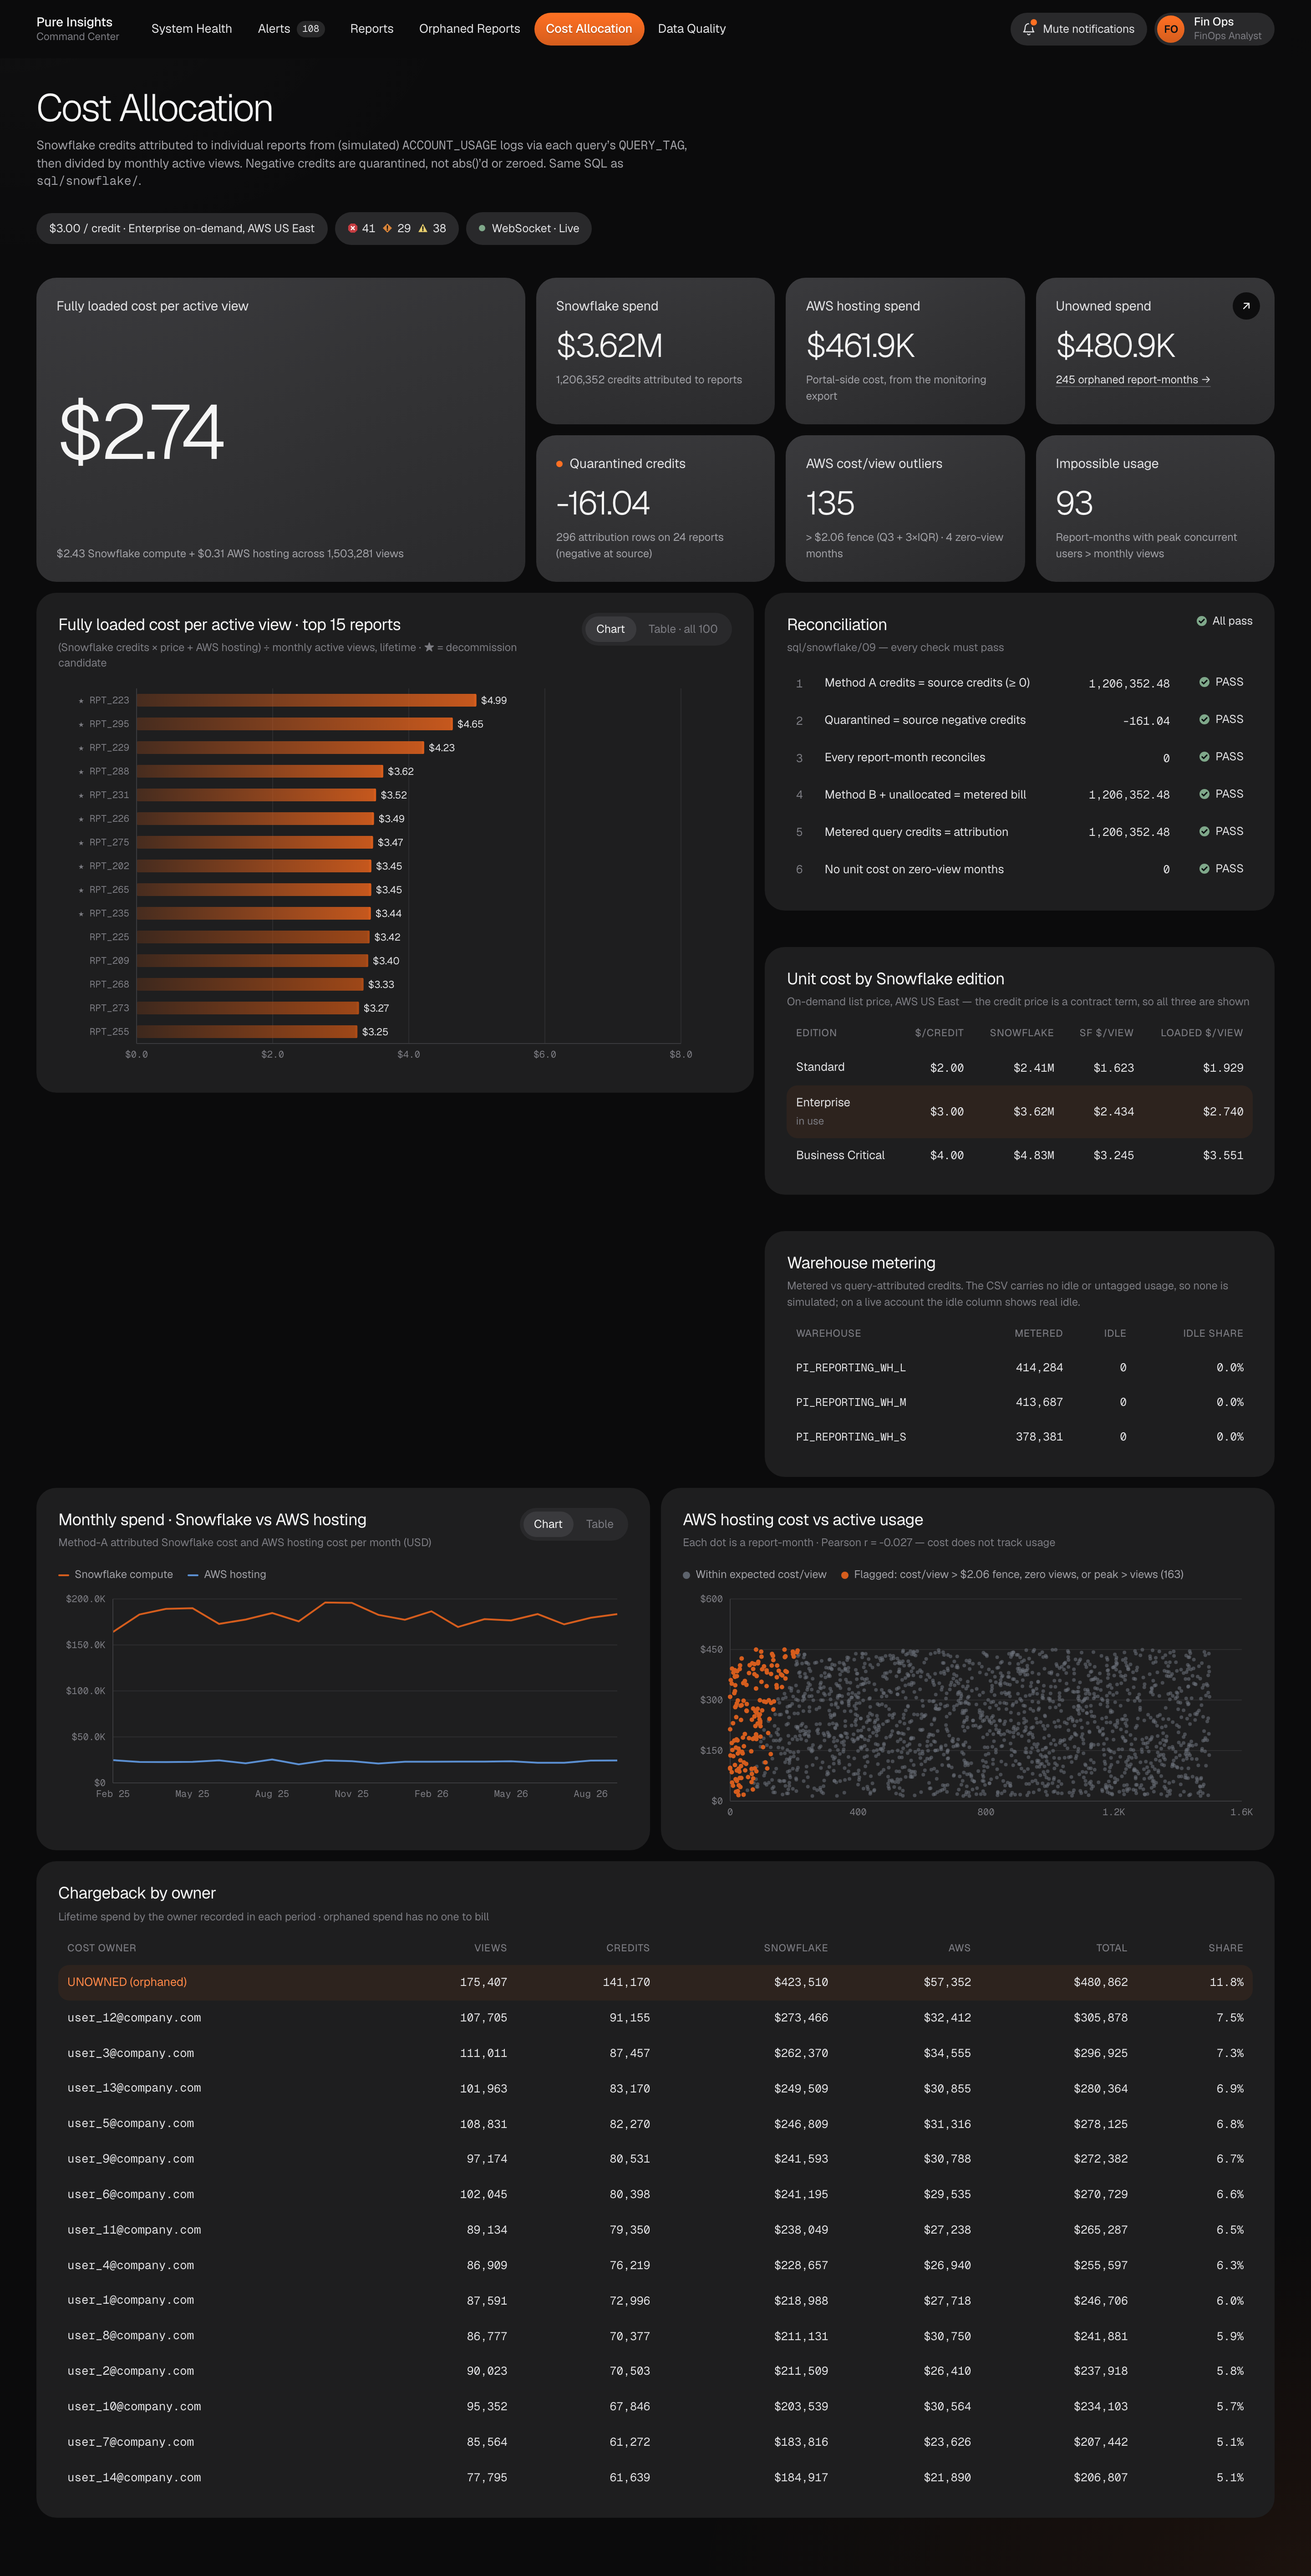
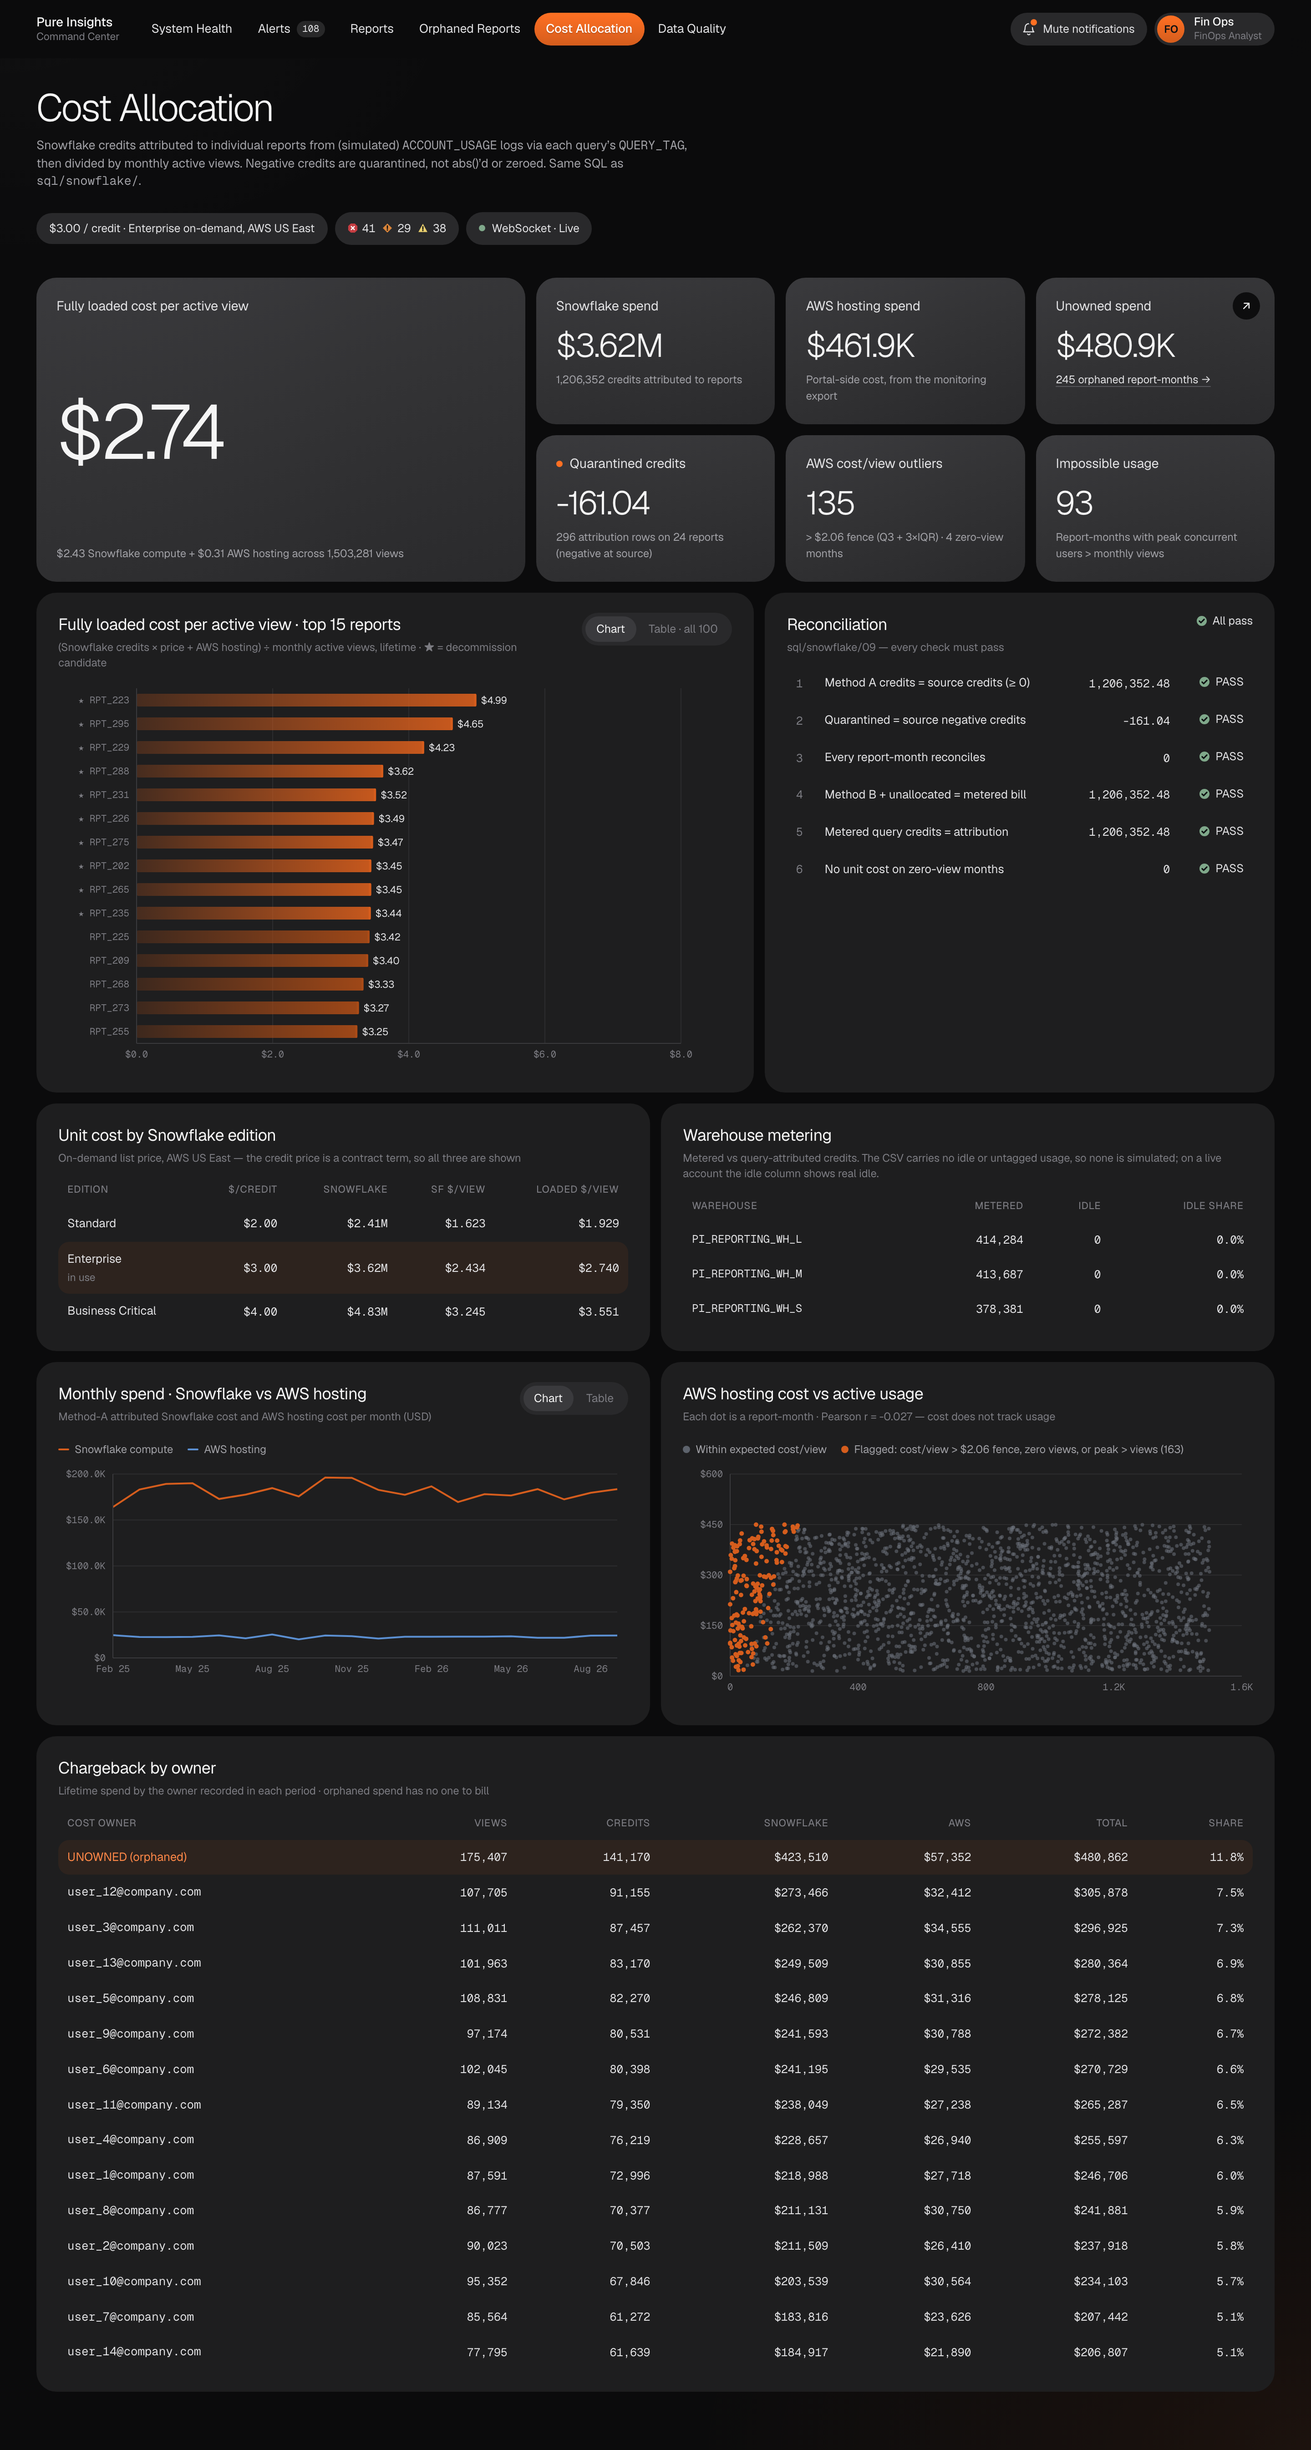
Align cost page cards into equal-height rows
Ranking and reconciliation share a row; unit cost by edition and warehouse
metering sit side by side below them

diff --git a/client/src/pages/Costs.jsx b/client/src/pages/Costs.jsx
@@ -61,11 +61,12 @@ function CostTrend() {
   );
 }
 
-function UnitCostRanking({ reports }) {
+function UnitCostRanking({ reports, className }) {
   const [view, setView] = useState('chart');
   const top = reports.slice(0, 15);
   return (
     <Panel
+      className={className}
       title="Fully loaded cost per active view · top 15 reports"
       sub="(Snowflake credits × price + AWS hosting) ÷ monthly active views, lifetime · ★ = decommission candidate"
       actions={<Segmented label="View" value={view} onChange={setView} options={[{ value: 'chart', label: 'Chart' }, { value: 'table', label: 'Table · all 100' }]} />}
@@ -197,9 +198,8 @@ export function Costs() {
       </div>
 
       <div className="grid grid-12">
-        <div className="span-7"><UnitCostRanking reports={rep.reports} /></div>
-        <div className="span-5 stack" style={{ gap: 40 }}>
-          <Panel title="Reconciliation" sub="sql/snowflake/09 — every check must pass" actions={<SeverityBadge severity={allPass ? 'OK' : 'CRITICAL'} label={allPass ? 'All pass' : 'Failing'} />} flush>
+        <UnitCostRanking className="span-7" reports={rep.reports} />
+          <Panel className="span-5" title="Reconciliation" sub="sql/snowflake/09 — every check must pass" actions={<SeverityBadge severity={allPass ? 'OK' : 'CRITICAL'} label={allPass ? 'All pass' : 'Failing'} />} flush>
             <table>
               <tbody>
                 {s.reconciliation.map((c) => (
@@ -213,6 +213,9 @@ export function Costs() {
               </tbody>
             </table>
           </Panel>
+      </div>
+
+      <div className="grid grid-2">
           <Panel title="Unit cost by Snowflake edition" sub="On-demand list price, AWS US East — the credit price is a contract term, so all three are shown" flush>
             <div className="table-wrap">
             <table>
@@ -241,7 +244,6 @@ export function Costs() {
               </tbody>
             </table>
           </Panel>
-        </div>
       </div>
 
       <div className="grid grid-2">
